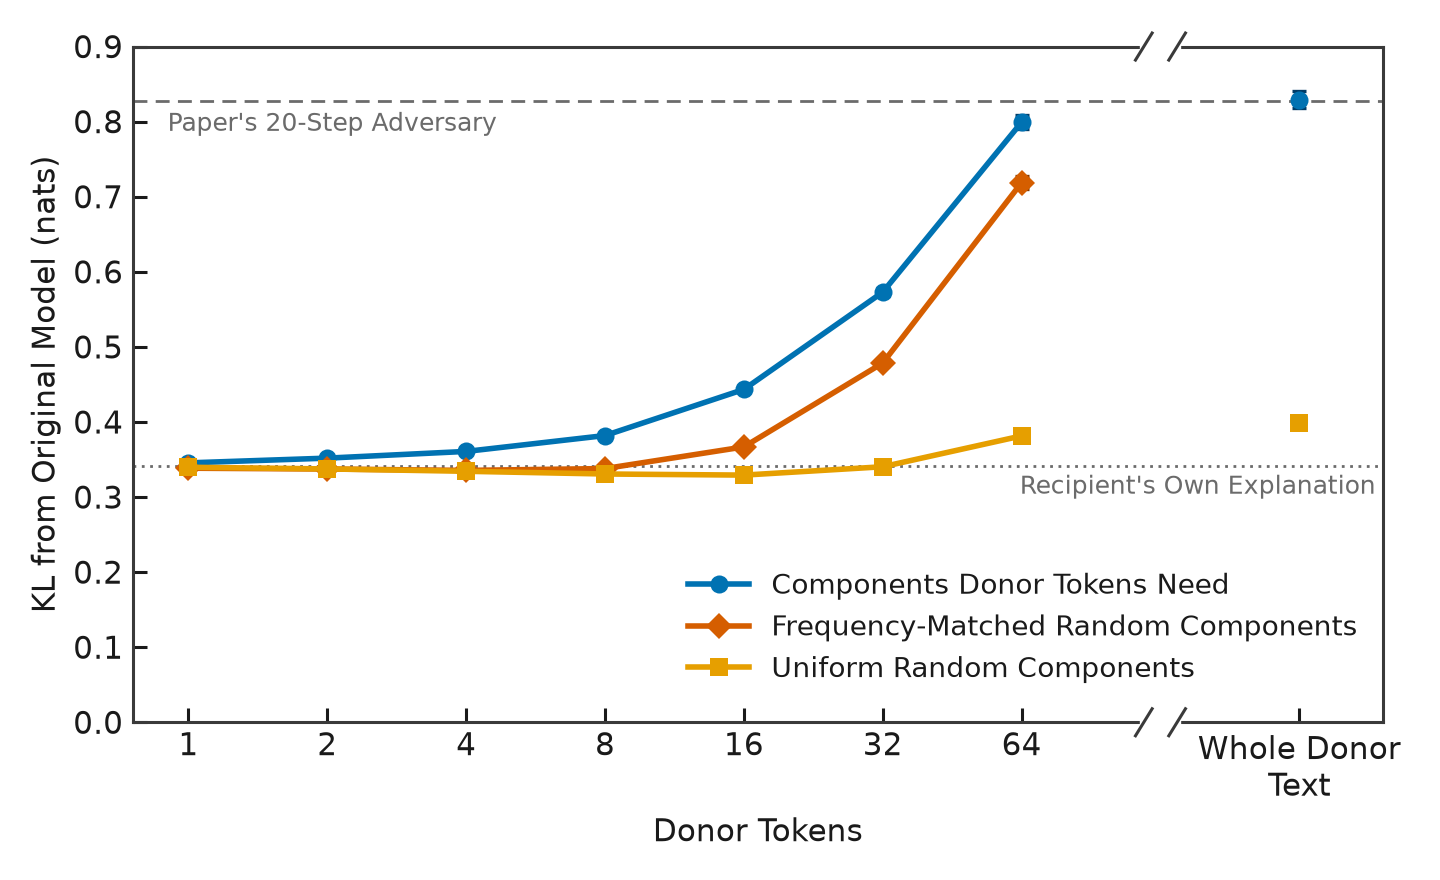
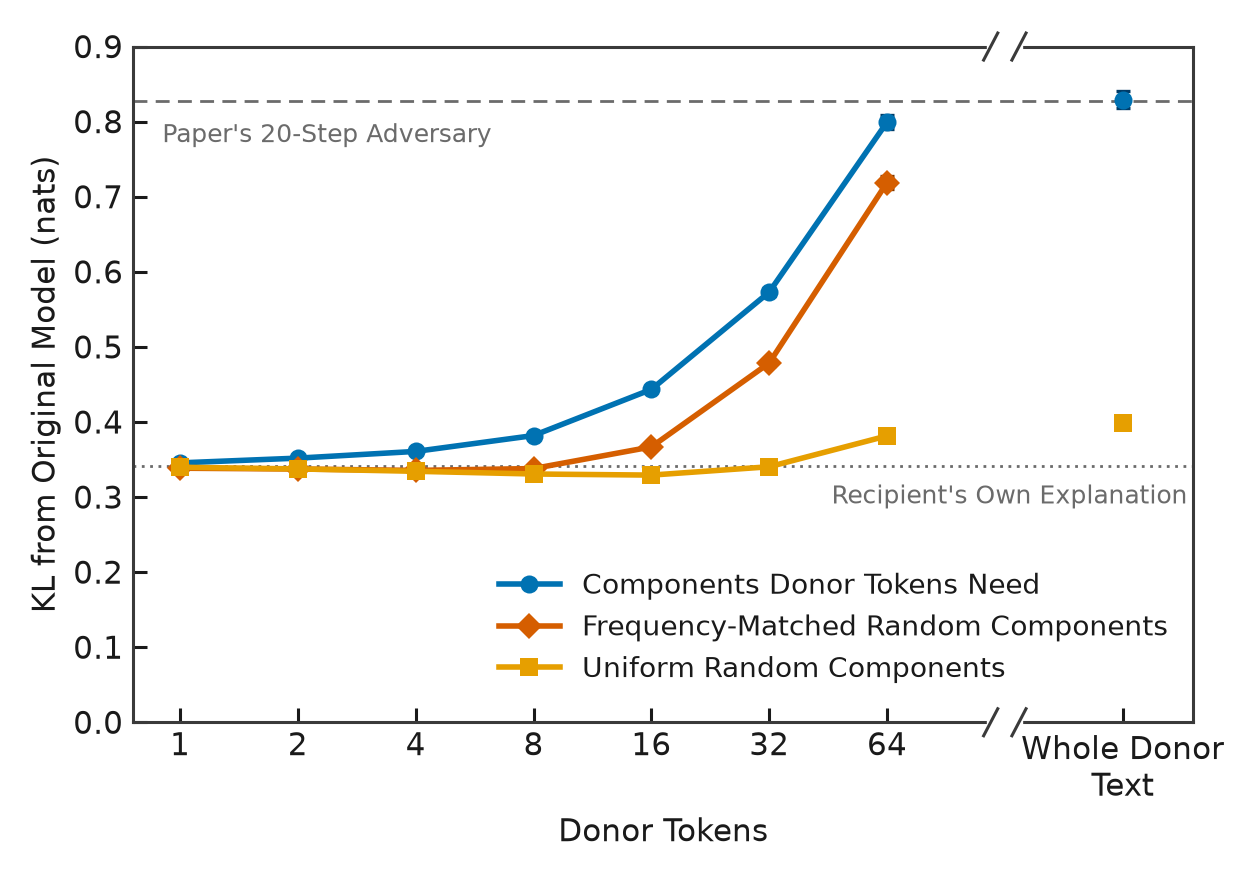
Larger top figure and lower reference-line labels in the post's figures

diff --git a/vpd_audit/figures_post.py b/vpd_audit/figures_post.py
@@ -57,6 +57,10 @@ X_BREAK, X_WHOLE = 7.0, 8.0
 # The post's copy of the similar-donors figure is narrower than the original design (10 inches), so that, scaled to the post's
 # column width, its text and markers appear at about the same size as in the other figures.
 SIMILAR_DONORS_WIDTH = 8.3
+# Likewise the top figure (7.2 inches in the original design). The post's copies also set the reference lines' labels a little
+# further below their lines than the original design does.
+AGGREGATION_CURVE_WIDTH = 6.3
+POST_LABEL_GAPS = {"adversary": 0.03, "own_curve": 0.025, "own_similar": 0.04}
 # The paper's own adversary after 20 PGD steps: KL 0.8280 to the target model, on the authors' batch of 128 evaluation sequences of length
 # 512 (the paper's PGD table).
 ADVERSARY_20 = 0.8280
@@ -421,18 +425,20 @@ class Line:
     later: tuple[int, ...] = ()
 
 
-def draw_aggregation_curve(lines: list[Line], tokens: list[int], own_explanation: float, path: Path, *, adversary: float = ADVERSARY_20) -> Path:
+def draw_aggregation_curve(lines: list[Line], tokens: list[int], own_explanation: float, path: Path, *, adversary: float = ADVERSARY_20,
+                           width: float = 7.2, adversary_label_gap: float = 0.015, own_label_gap: float = 0.012) -> Path:
     """The top figure: divergence on E against donor tokens, the whole donor text past the break, the paper's 20-step adversary and the
-    recipient's own explanation as reference lines."""
+    recipient's own explanation as reference lines. `width` is the figure's width in inches, and each label gap is how far, in nats, a
+    reference line's label sits below its line; the defaults are the original design's, which the pixel test redraws."""
     plt = _plt()
     with plt.rc_context(RC):
         x_tok = np.log2(tokens)
-        fig, ax = plt.subplots(figsize=(7.2, 4.4), dpi=200)
+        fig, ax = plt.subplots(figsize=(width, 4.4), dpi=200)
         ax.axhline(adversary, color=MUTED, linewidth=1.0, linestyle=(0, (5, 3)), zorder=1)
-        ax.text(-0.15, adversary - 0.015, "Paper's 20-Step Adversary", color=MUTED, fontsize=9,
+        ax.text(-0.15, adversary - adversary_label_gap, "Paper's 20-Step Adversary", color=MUTED, fontsize=9,
                 va="top", ha="left")
         ax.axhline(own_explanation, color=MUTED, linewidth=1.0, linestyle=(0, (1, 2)), zorder=1)
-        ax.text(8.55, own_explanation - 0.012, "Recipient's Own Explanation", color=MUTED,
+        ax.text(8.55, own_explanation - own_label_gap, "Recipient's Own Explanation", color=MUTED,
                 fontsize=9, va="top", ha="right")
         for ln in lines:
             curve(ax, x_tok, ln.y, ln.lo, ln.hi, ln.color, ln.dark, ln.marker)  # all lines solid
@@ -471,9 +477,10 @@ class Panel:
     lines: list[Line]
 
 
-def draw_similar_donors(panels: list[Panel], tokens: list[int], path: Path, *, width: float = 10.0) -> Path:
+def draw_similar_donors(panels: list[Panel], tokens: list[int], path: Path, *, width: float = 10.0, own_label_gap: float = 0.02) -> Path:
     """The similar-donors figure: code recipients and prose recipients side by side, three kinds of donors each. `width` is the
-    figure's width in inches; the default is the original design's, which the pixel test redraws."""
+    figure's width in inches, and `own_label_gap` how far, in nats, the own explanation's label sits below its line; the defaults are
+    the original design's, which the pixel test redraws."""
     plt = _plt()
     with plt.rc_context(RC):
         xs = list(np.log2(tokens)) + [X_WHOLE]
@@ -481,7 +488,7 @@ def draw_similar_donors(panels: list[Panel], tokens: list[int], path: Path, *, w
         fig, axes = plt.subplots(1, 2, figsize=(width, 4.3), dpi=200, sharey=True)
         for ax, pnl in zip(axes, panels):
             ax.axhline(pnl.base, color=MUTED, linewidth=1.0, linestyle=(0, (1, 2)), zorder=1)
-            ax.text(6.25, pnl.base - 0.02, "Recipient's Own Explanation", color=MUTED, fontsize=9,
+            ax.text(6.25, pnl.base - own_label_gap, "Recipient's Own Explanation", color=MUTED, fontsize=9,
                     va="top", ha="right")
             for ln in pnl.lines:
                 y, lo, hi = np.asarray(ln.y), np.asarray(ln.lo), np.asarray(ln.hi)
@@ -934,7 +941,8 @@ def aggregation_curve_figure(inp: Inputs, out_dir: Path) -> dict[str, Any]:
         if whole is not None:
             rows.append({"line": label, "donor_tokens": "whole donor text", "divergence": whole[0], "lo": whole[1], "hi": whole[2], "rise": sub.loc[512, "rise"], "rise_lo": sub.loc[512, "rise_lo"],
                          "rise_hi": sub.loc[512, "rise_hi"], "own_explanation": own, "level": "95 percent", "marker": "filled"})
-    path = draw_aggregation_curve(lines, tokens, own, Path(out_dir) / f"{OUT_NAMES['aggregation_curve']}.png")
+    path = draw_aggregation_curve(lines, tokens, own, Path(out_dir) / f"{OUT_NAMES['aggregation_curve']}.png", width=AGGREGATION_CURVE_WIDTH,
+                                  adversary_label_gap=POST_LABEL_GAPS["adversary"], own_label_gap=POST_LABEL_GAPS["own_curve"])
     pd.DataFrame(rows).to_csv(path.with_suffix(".csv"), index=False, lineterminator="\n")
     return {"png": path, "rows": len(rows)}
 
@@ -959,7 +967,8 @@ def similar_donors_figure(inp: Inputs, out_dir: Path) -> dict[str, Any]:
                 rows.append({"recipients": ttl, "donors": label, "donor_tokens": "whole donor text" if x == 512 else x, "divergence": y[i], "lo": lo[i], "hi": hi[i], "rise": sub.loc[x, "rise"],
                              "rise_lo": sub.loc[x, "rise_lo"], "rise_hi": sub.loc[x, "rise_hi"], "own_explanation": b, "level": "95 percent", "marker": "open" if x in LATER_TOKENS else "filled"})
         panels.append(Panel(ttl, tcol, b, lines))
-    path = draw_similar_donors(panels, tokens, Path(out_dir) / f"{OUT_NAMES['similar_donors']}.png", width=SIMILAR_DONORS_WIDTH)
+    path = draw_similar_donors(panels, tokens, Path(out_dir) / f"{OUT_NAMES['similar_donors']}.png", width=SIMILAR_DONORS_WIDTH,
+                               own_label_gap=POST_LABEL_GAPS["own_similar"])
     pd.DataFrame(rows).to_csv(path.with_suffix(".csv"), index=False, lineterminator="\n")
     return {"png": path, "rows": len(rows), "own_explanations": own}
 
